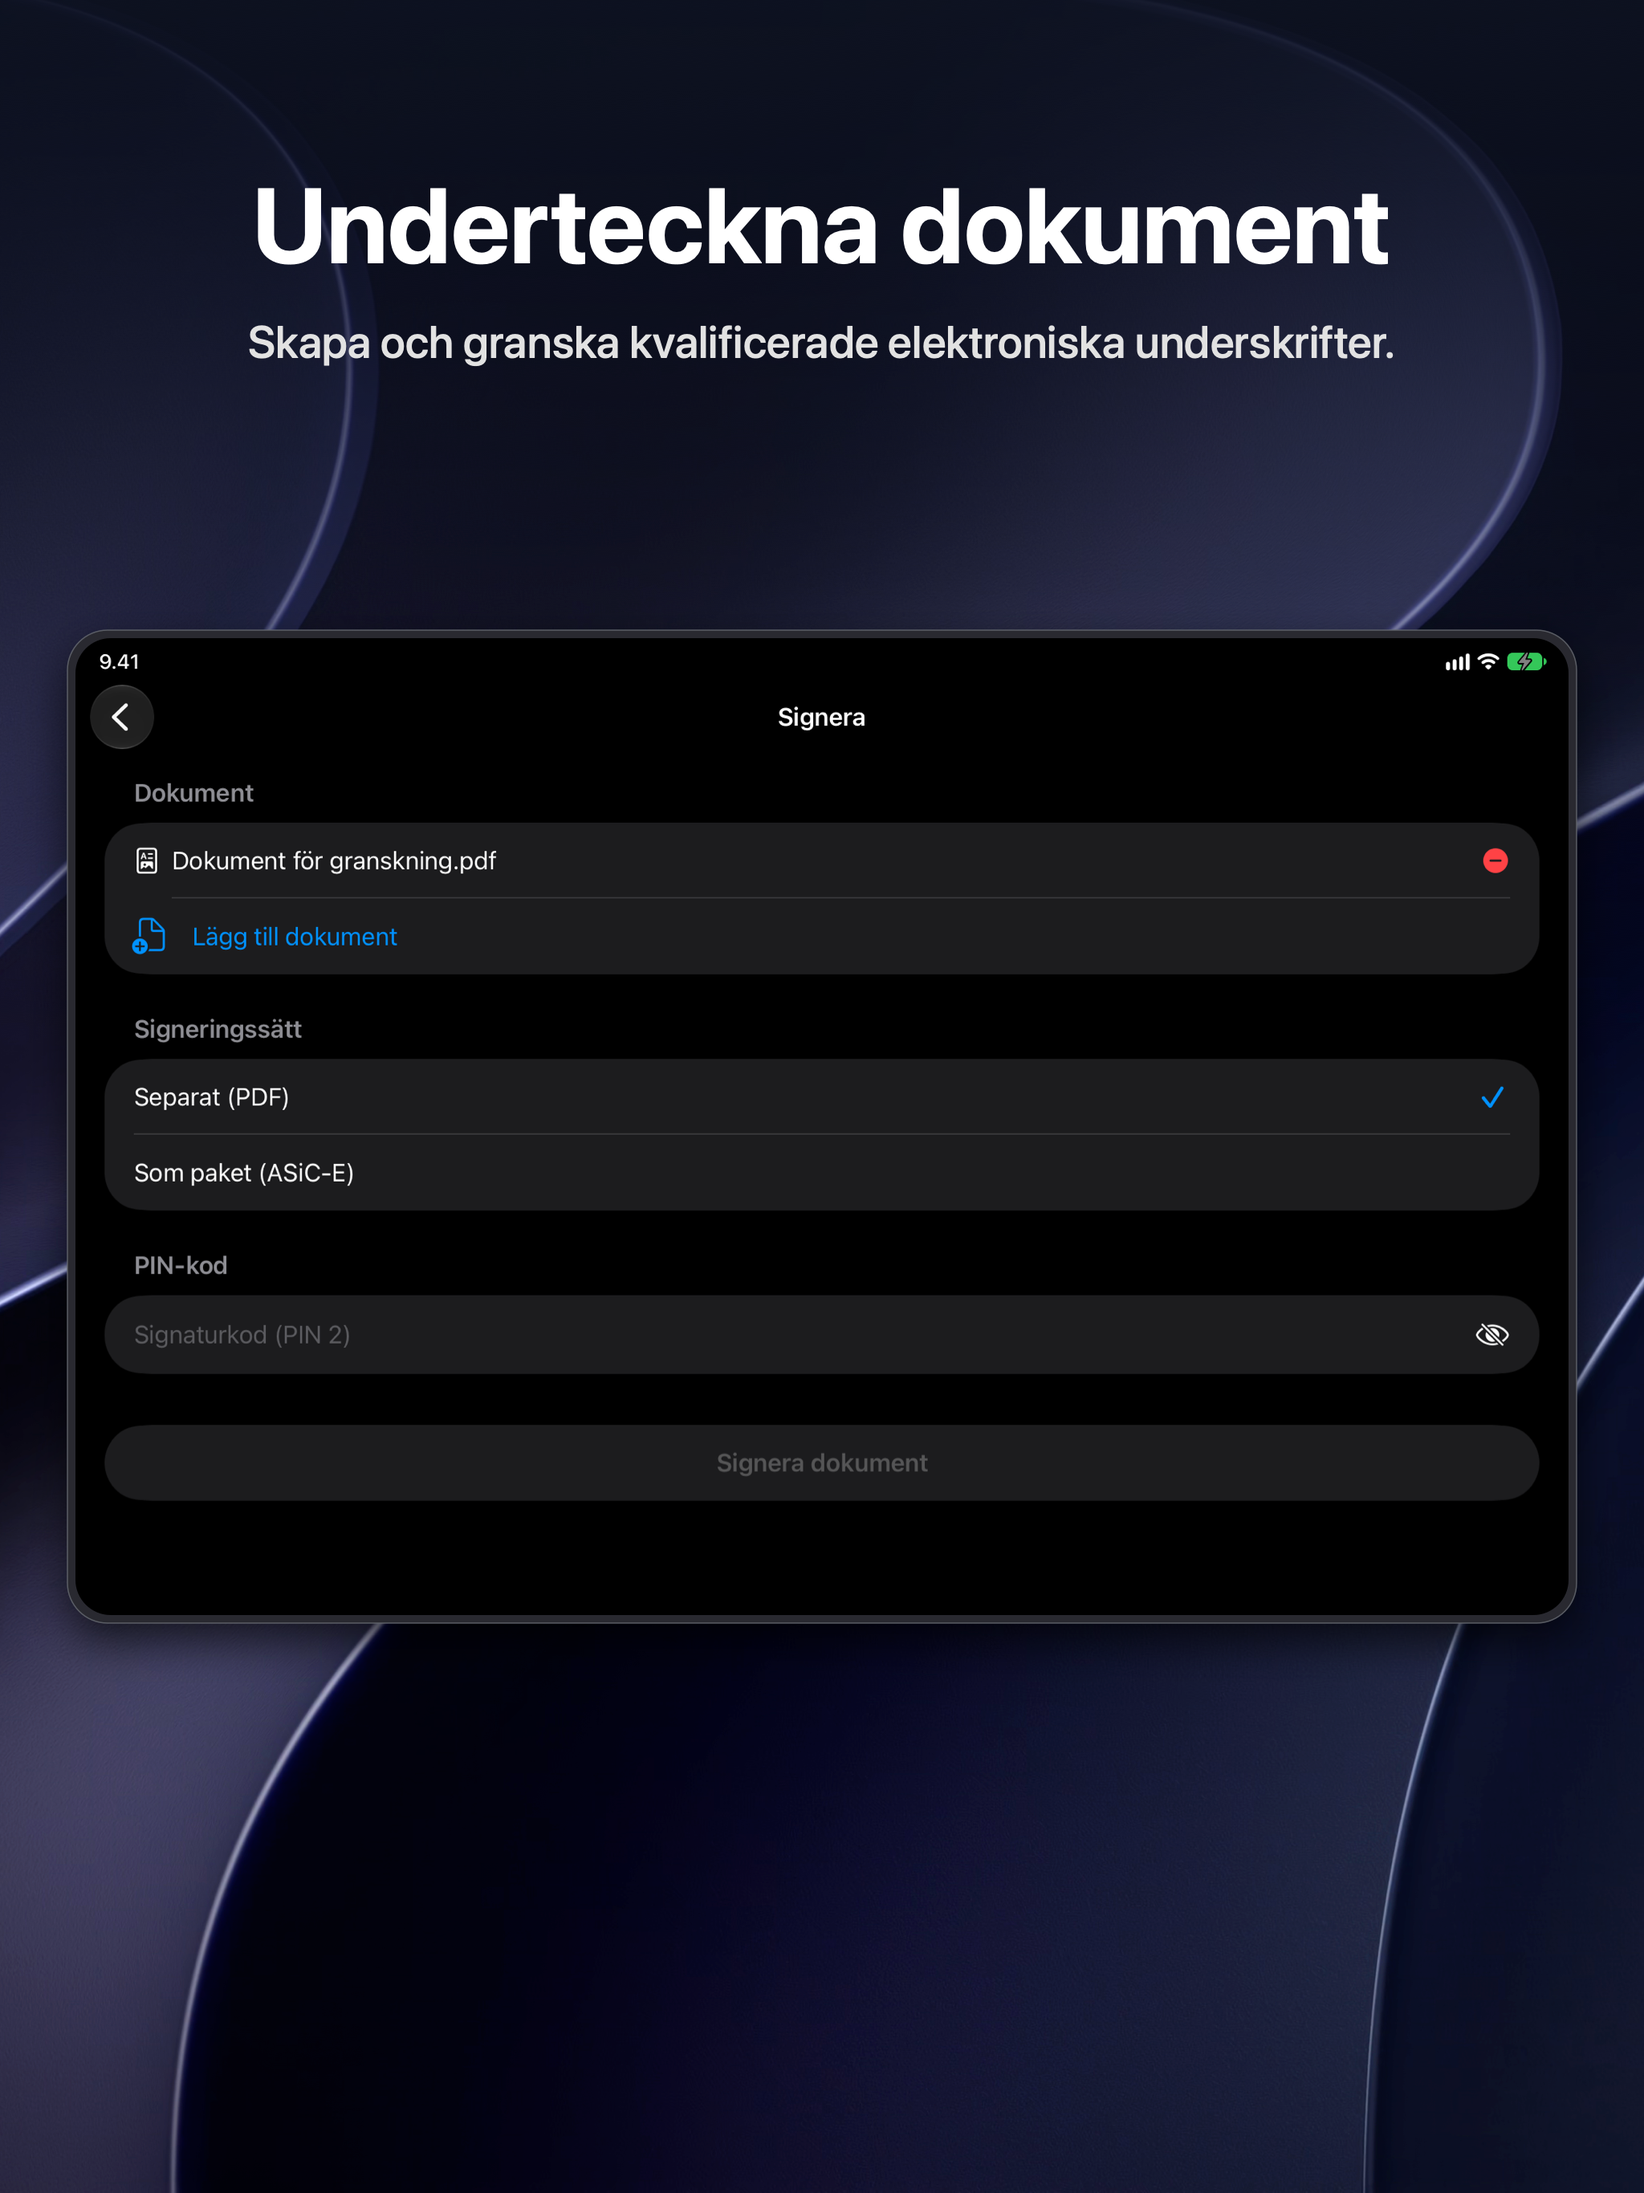
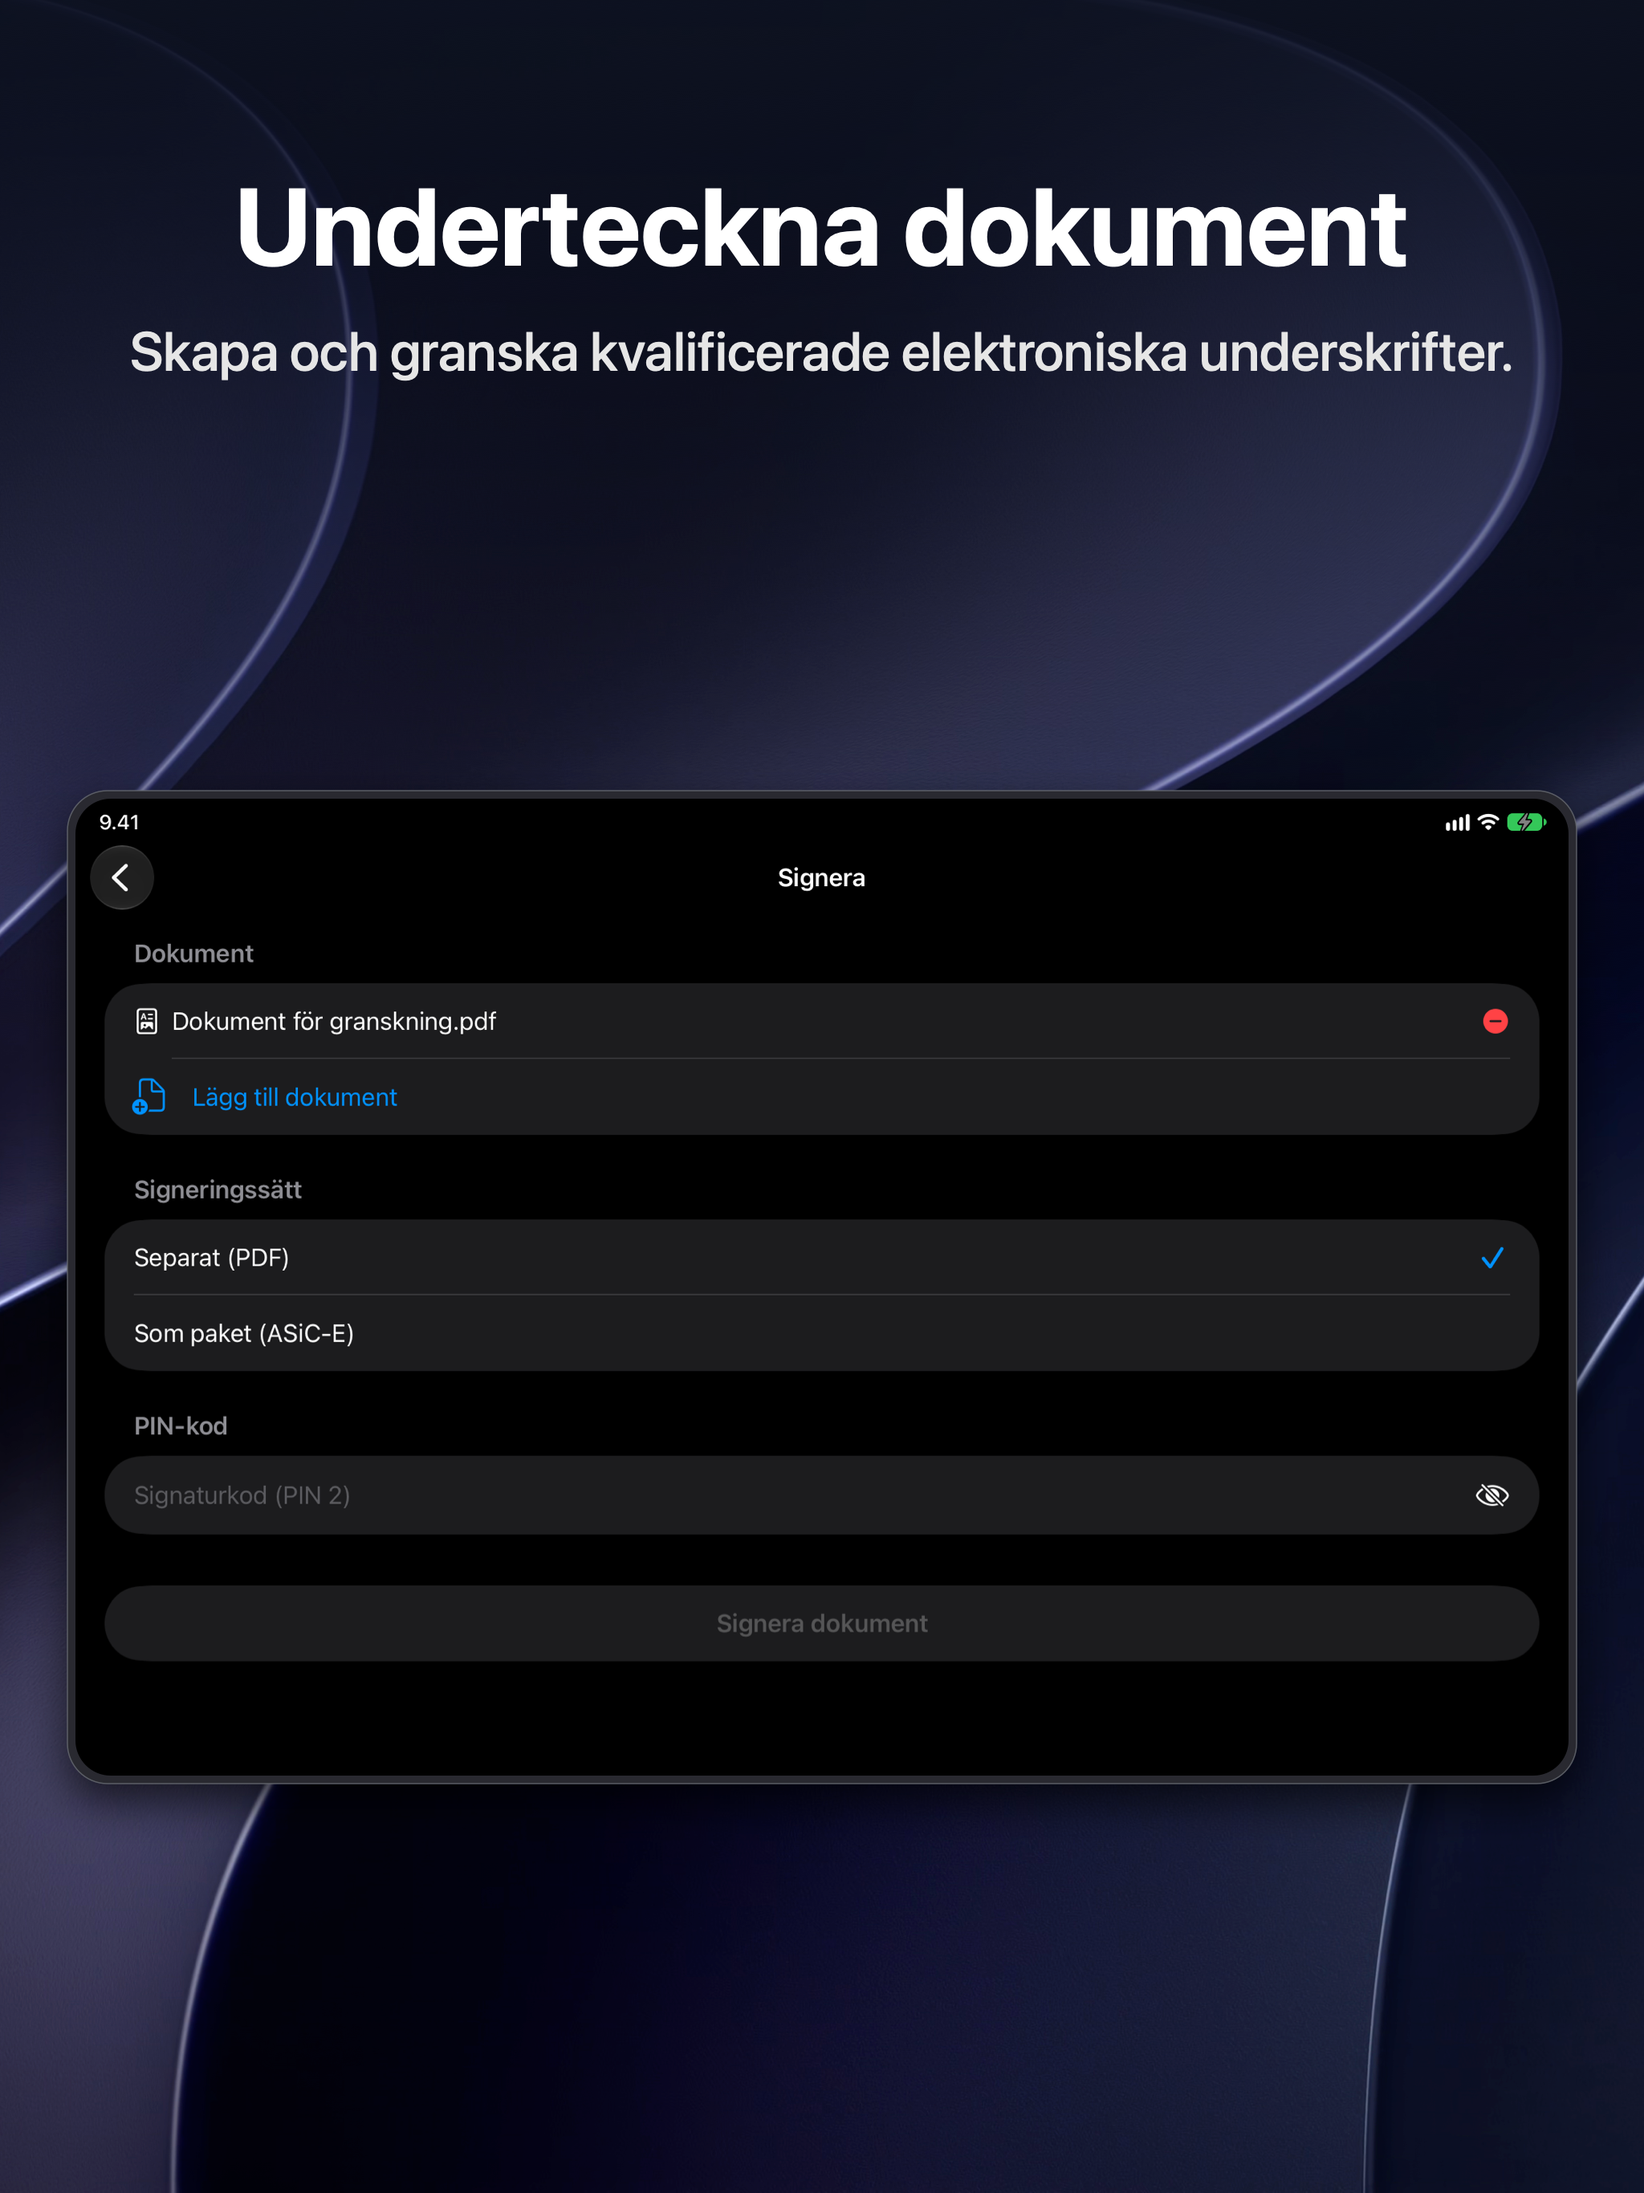
Harmonize screenshot proportions and increase subtitle typography size

diff --git a/Scripts/generate-store-screenshots.swift b/Scripts/generate-store-screenshots.swift
@@ -352,11 +352,11 @@ func renderIOS(locale: String, slide: SlideData) {
         context.fill(CGRect(x: 0, y: 0, width: width, height: height))
     }
 
-    var currentTopY = CGFloat(height) - 160
+    var currentTopY = CGFloat(height) - 180
 
     // 2. Title
     let titleLength = slide.title.count
-    let titleFontSize: CGFloat = titleLength > 36 ? 92 : (titleLength > 25 ? 98 : 106)
+    let titleFontSize: CGFloat = titleLength > 36 ? 94 : (titleLength > 25 ? 100 : 108)
     let titleFont = NSFont.systemFont(ofSize: titleFontSize, weight: .bold)
     let titleStyle = NSMutableParagraphStyle()
     titleStyle.alignment = .center
@@ -374,22 +374,22 @@ func renderIOS(locale: String, slide: SlideData) {
     let titleHeight = ceil(titleBounding.height)
     let titleRect = CGRect(x: 50, y: currentTopY - titleHeight, width: CGFloat(width - 100), height: titleHeight)
     (slide.title as NSString).draw(in: titleRect, withAttributes: titleAttr)
-    currentTopY -= (titleHeight + 28)
+    currentTopY -= (titleHeight + 32)
 
     // 3. Subtitle
     let subLength = slide.subtitle.count
-    let subFontSize: CGFloat = subLength > 50 ? 48 : 52
+    let subFontSize: CGFloat = subLength > 50 ? 58 : 64
     let subFont = NSFont.systemFont(ofSize: subFontSize, weight: .medium)
     let subStyle = NSMutableParagraphStyle()
     subStyle.alignment = .center
     subStyle.lineBreakMode = .byWordWrapping
     let subAttr: [NSAttributedString.Key: Any] = [
         .font: subFont,
-        .foregroundColor: NSColor(calibratedWhite: 0.86, alpha: 1.0),
+        .foregroundColor: NSColor(calibratedWhite: 0.88, alpha: 1.0),
         .paragraphStyle: subStyle
     ]
     let subBounding = (slide.subtitle as NSString).boundingRect(
-        with: CGSize(width: CGFloat(width - 120), height: 350),
+        with: CGSize(width: CGFloat(width - 120), height: 400),
         options: [.usesLineFragmentOrigin, .usesFontLeading],
         attributes: subAttr
     )
@@ -404,7 +404,9 @@ func renderIOS(locale: String, slide: SlideData) {
         let targetWidth: CGFloat = 1160
         let targetHeight = targetWidth * (rawCropHeight / 1290.0) // ~1726.5 px
         let phoneX = (CGFloat(width) - targetWidth) / 2
-        let phoneY: CGFloat = 460
+        let subBottomY = subRect.origin.y
+        let availableSpace = subBottomY
+        let phoneY = round((availableSpace - targetHeight) / 2)
         let cornerRadius: CGFloat = 56.0
 
         // Bezel & Ambient Shadow
@@ -508,7 +510,7 @@ func renderIPad(locale: String, slide: SlideData) {
 
     // 2. Title
     let titleLength = slide.title.count
-    let titleFontSize: CGFloat = titleLength > 45 ? 112 : (titleLength > 30 ? 122 : 132)
+    let titleFontSize: CGFloat = titleLength > 45 ? 116 : (titleLength > 30 ? 126 : 136)
     let titleFont = NSFont.systemFont(ofSize: titleFontSize, weight: .bold)
     let titleStyle = NSMutableParagraphStyle()
     titleStyle.alignment = .center
@@ -530,14 +532,14 @@ func renderIPad(locale: String, slide: SlideData) {
 
     // 3. Subtitle
     let subLength = slide.subtitle.count
-    let subFontSize: CGFloat = subLength > 55 ? 56 : 62
+    let subFontSize: CGFloat = subLength > 55 ? 68 : 74
     let subFont = NSFont.systemFont(ofSize: subFontSize, weight: .medium)
     let subStyle = NSMutableParagraphStyle()
     subStyle.alignment = .center
     subStyle.lineBreakMode = .byWordWrapping
     let subAttr: [NSAttributedString.Key: Any] = [
         .font: subFont,
-        .foregroundColor: NSColor(calibratedWhite: 0.86, alpha: 1.0),
+        .foregroundColor: NSColor(calibratedWhite: 0.88, alpha: 1.0),
         .paragraphStyle: subStyle
     ]
     let subBounding = (slide.subtitle as NSString).boundingRect(
@@ -556,7 +558,9 @@ func renderIPad(locale: String, slide: SlideData) {
         let targetWidth: CGFloat = 1860
         let targetHeight = targetWidth * (rawCropHeight / 2048.0) // ~1217 px
         let ipadX = (CGFloat(width) - targetWidth) / 2
-        let ipadY: CGFloat = 720
+        let subBottomY = subRect.origin.y
+        let availableSpace = subBottomY
+        let ipadY = round((availableSpace - targetHeight) / 2)
         let cornerRadius: CGFloat = 44.0
 
         // Bezel & Ambient Shadow
